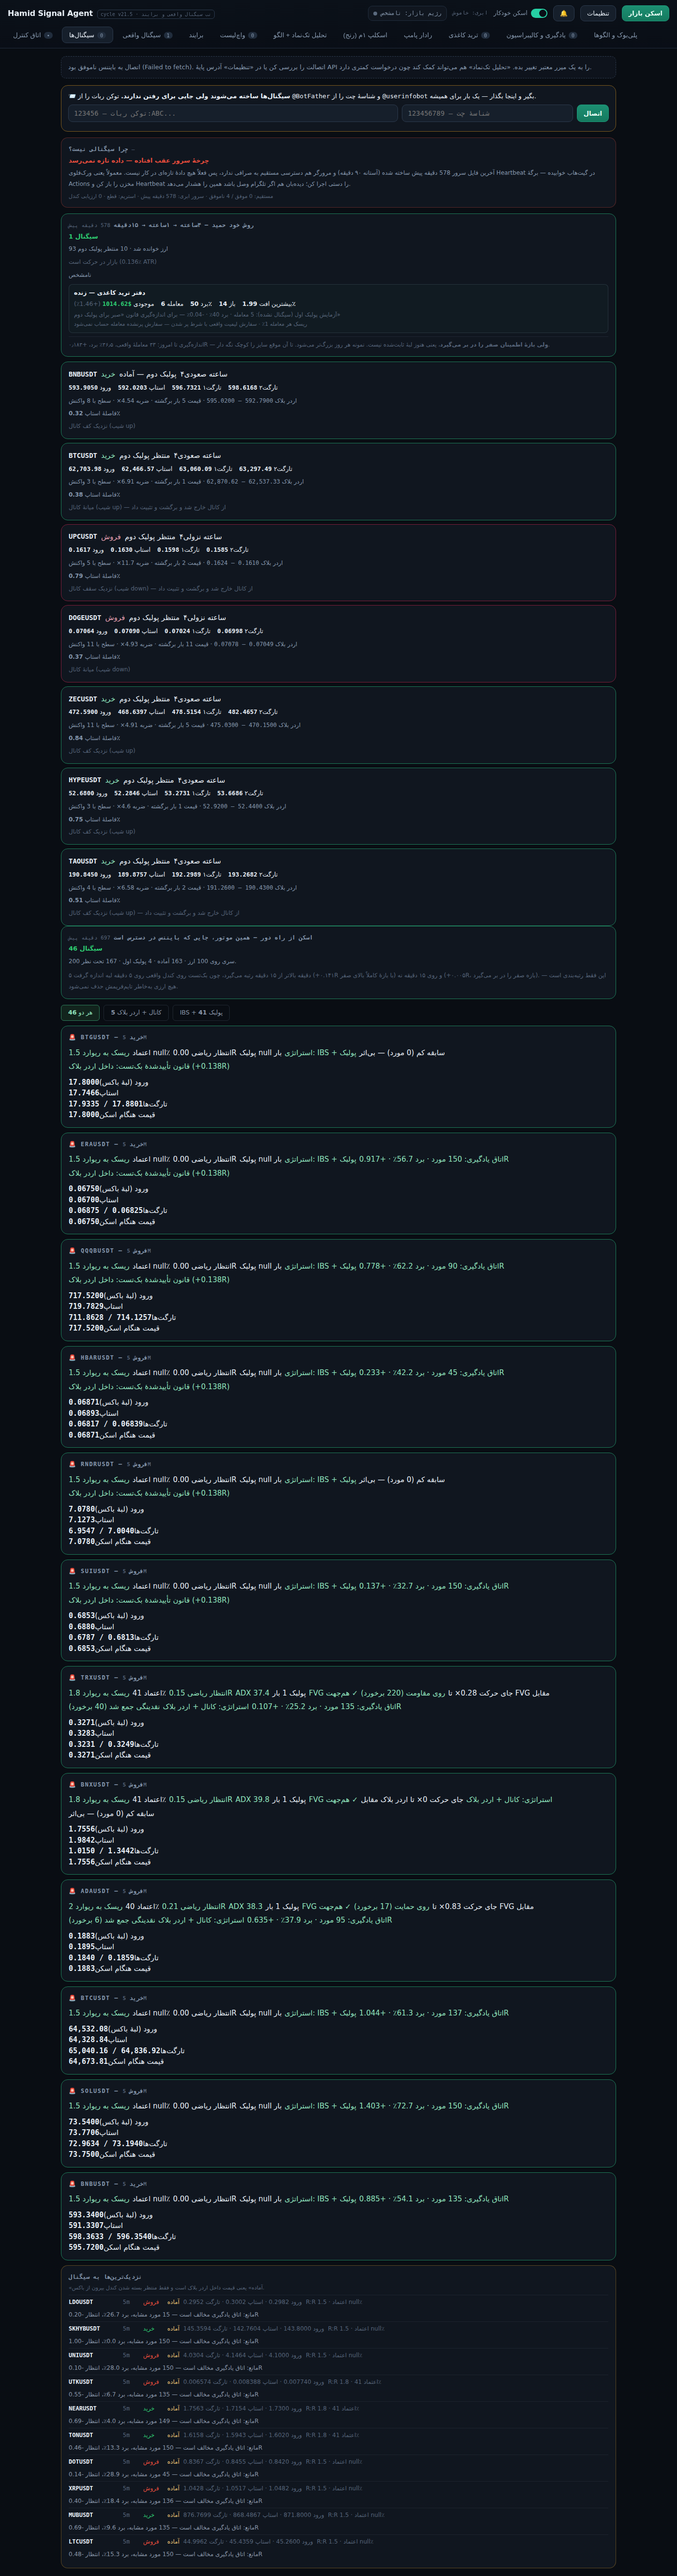
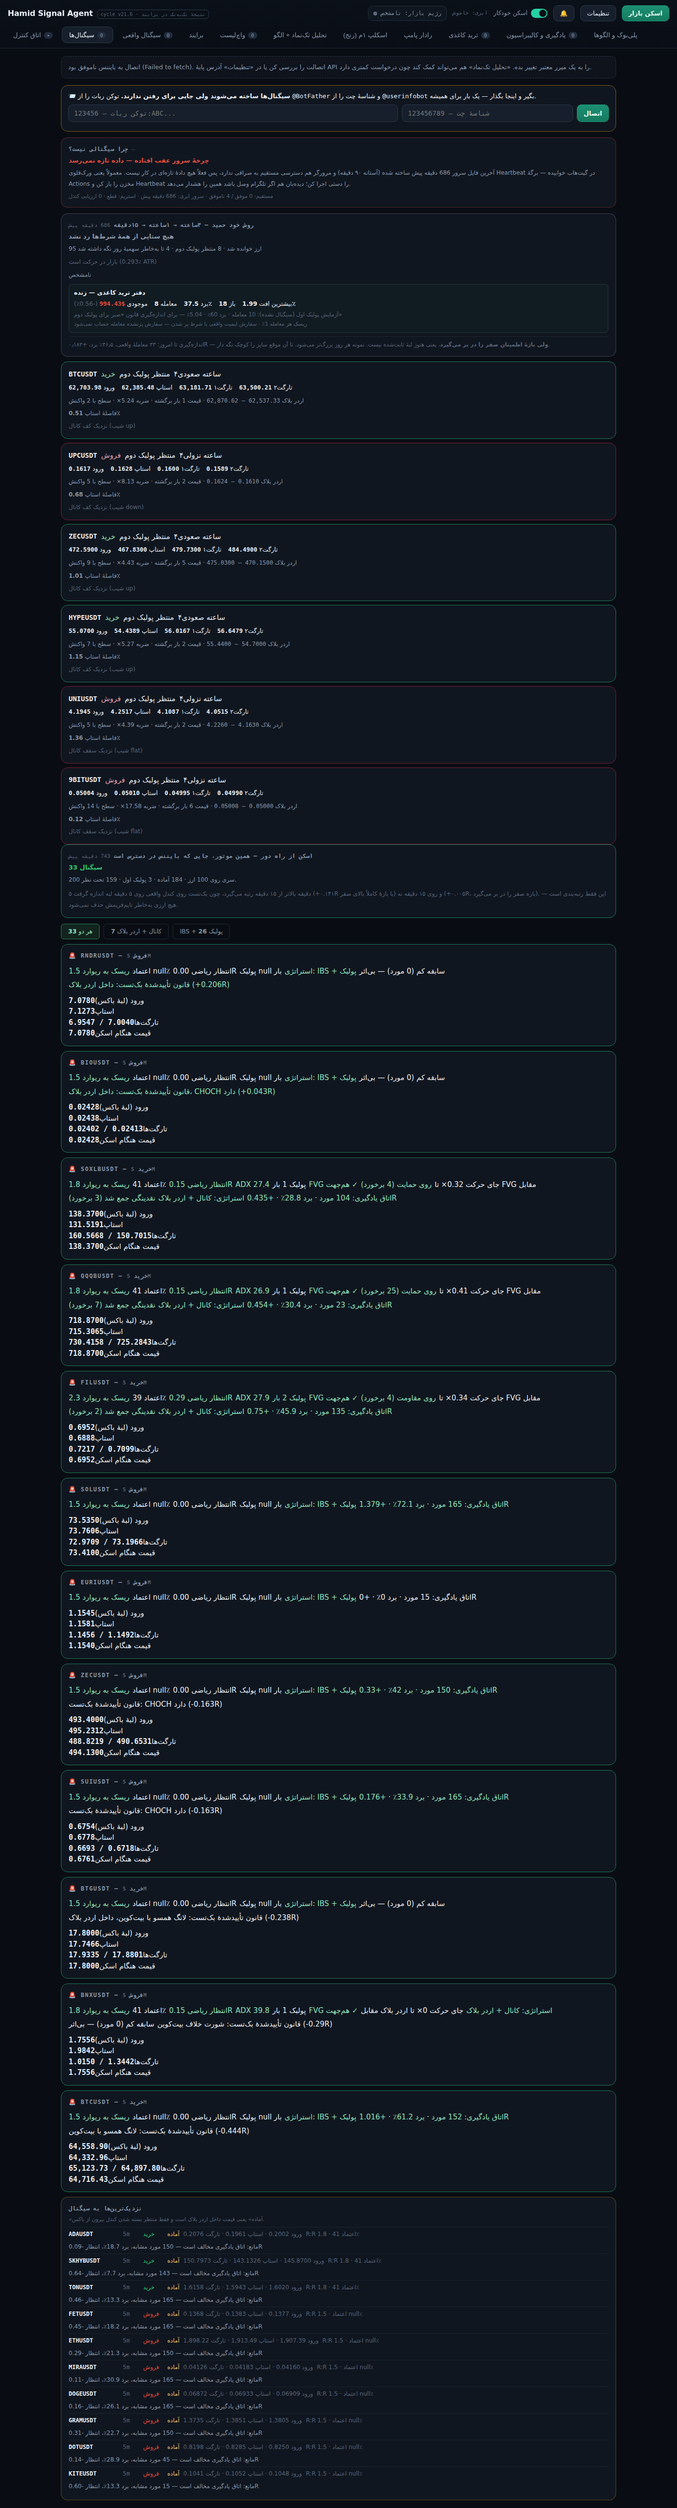
نتیجهٔ تکبهتک معاملههای کاغذی در تب برایند — v21.6 (#36)
paper._equity حالا ۴۰ نتیجهٔ آخر را تکبهتک صادر میکند (نماد، جهت،
تارگت/استاپ/منقضی، R، زمان، نوع سیگنالشده یا آزمایش پولبک اول) و از مسیر
**eq بدون تغییر دیگری به hamid-latest.json میرسد. تب برایند جدولش را
رنگی نشان میدهد — منقضی هم میآید چون پنهان کردنش عقبنشینی از شفافیت
است. selfcheck ۱۳/۱۳، تست پنل و تست رندر جدول سبز. v21.6.

Claude-Session: https://claude.ai/code/session_01Hmz5ep1FQiSRdvnpYTDsuE

diff --git a/index.html b/index.html
@@ -217,7 +217,7 @@ input.f{background:var(--panel2);border:1px solid var(--line2);border-radius:9px
 <body dir="ltr">
 <header>
   <div class="bar">
-    <div class="brand"><b>Hamid Signal Agent</b><span class="v" id="ver">cycle v21.5 · تب سیگنال واقعی و برایند</span></div>
+    <div class="brand"><b>Hamid Signal Agent</b><span class="v" id="ver">cycle v21.6 · نتیجهٔ تکبهتک در برایند</span></div>
     <div class="regime" id="regime"><span class="dot"></span><span id="regimeTxt">رژیم بازار: نامشخص</span></div>
     <span class="mono" id="syncPill" style="font-size:11px;color:var(--dim)">ابری: خاموش</span>
     <label class="switch" id="autoSw"><span>اسکن خودکار</span><i></i></label>
@@ -3699,6 +3699,25 @@ function renderNet(){
     ${ex&&ex.trades?`<div class="dim" style="font-size:11.5px;margin-top:6px">
       آزمایش پولبک اول (سیگنال نمیشود): ${ex.trades} معامله · برد ${ex.win_pct}٪ · ${ex.return_pct}٪ —
       فقط برای سنجش قانون «صبر برای پولبک دوم»</div>`:""}
+  </div>
+  <div class="box" style="margin-bottom:12px">
+    <h3 style="margin:0 0 4px">نتیجهٔ تکبهتک — آخرین معاملههای کاغذی سرور</h3>
+    <div class="dim" style="font-size:11px;margin-bottom:4px">
+      همهچیز، بدون سانسور: تارگت، استاپ، و سفارشهای منقضی (پرنشده — معامله حساب نمیشوند).</div>
+    ${(()=>{const R=(hp||{}).recent||[];if(!R.length)return`<div class="dim" style="font-size:12px">
+      لیست تکبهتک از چرخهٔ بعدی سرور میرسد</div>`;
+    return R.map(t=>{const won=(t.R||0)>0,exp=t.outcome==="expired";
+      const c=exp?"#8b98ab":won?"#2ecc71":"#e74c3c";
+      const lbl=exp?"منقضی":t.outcome==="target"?"تارگت ✓":t.outcome==="stop"?"استاپ ✗":(t.outcome||"—");
+      return `<div style="display:flex;gap:8px;flex-wrap:wrap;align-items:center;padding:4px 0;
+        border-top:1px solid rgba(140,160,190,.10);font-size:12px">
+        <b class="mono" style="min-width:86px">${t.sym||"—"}</b>
+        <span>${t.dir==="LONG"?"خرید":"فروش"}</span>
+        <span class="dim" style="font-size:10.5px">${t.kind||""}</span>
+        <span style="color:${c};margin-inline-start:auto">${lbl}</span>
+        <b class="mono" style="min-width:52px;text-align:left;color:${c}">${t.R==null?"—":(t.R>0?"+":"")+t.R+"R"}</b>
+        <span class="dim mono" style="font-size:10px">${t.closed?new Date(t.closed).toLocaleString("fa-IR",{month:"numeric",day:"numeric",hour:"2-digit",minute:"2-digit"}):""}</span>
+      </div>`;}).join("");})()}
   </div>
   <div class="box" style="margin-bottom:12px">
     <h3 style="margin:0 0 4px">میز تمرین همین مرورگر</h3>

diff --git a/sw.js b/sw.js
@@ -1,7 +1,7 @@
 /* Hamid Signal Agent — service worker
    Caches the app shell so the panel opens instantly (even offline),
    while always going to the network for live market data and the cloud API. */
-const CACHE = "hsa-shell-v21.5";
+const CACHE = "hsa-shell-v21.6";
 const ASSETS = [
   "./",
   "./index.html",

diff --git a/claude-liam-signal/python/hamid/paper.py b/claude-liam-signal/python/hamid/paper.py
@@ -228,9 +228,23 @@ def _equity():
     closed = _read(CLOSED)
     signalled = [t for t in closed if (t.get("why") or {}).get("stage") != "first"]
     experiments = [t for t in closed if (t.get("why") or {}).get("stage") == "first"]
+
+    # شفافیت یعنی خود لیست، نه فقط جمعبندی — آخرین نتیجهها تکبهتک به پنل
+    # میروند تا حمید ببیند دقیقاً کدام معامله چه شد. سفارش منقضی هم میآید،
+    # با برچسب خودش، چون پنهان کردنش همان «عقبنشینی از شفافیت» است.
+    def public(t):
+        return {"sym": t.get("sym"), "dir": t.get("dir"),
+                "entry": t.get("entry"), "sl": t.get("sl"), "tp1": t.get("tp1"),
+                "outcome": t.get("outcome"), "R": t.get("R"),
+                "closed": t.get("closed"),
+                "kind": "آزمایش پولبک اول" if (t.get("why") or {}).get("stage") == "first" else "سیگنالشده"}
+    recent = sorted([t for t in closed if t.get("closed")],
+                    key=lambda t: t["closed"], reverse=True)[:40]
+
     j = {**run_book(signalled),
          "start": START_BALANCE, "risk_per_trade_pct": RISK_FRACTION * 100,
          "experiments_first_pullback": run_book(experiments),
+         "recent": [public(t) for t in recent],
          "updated": datetime.now(timezone.utc).strftime("%Y-%m-%d %H:%M UTC")}
     EQUITY.parent.mkdir(parents=True, exist_ok=True)
     EQUITY.write_text(json.dumps(j, ensure_ascii=False, indent=1))
